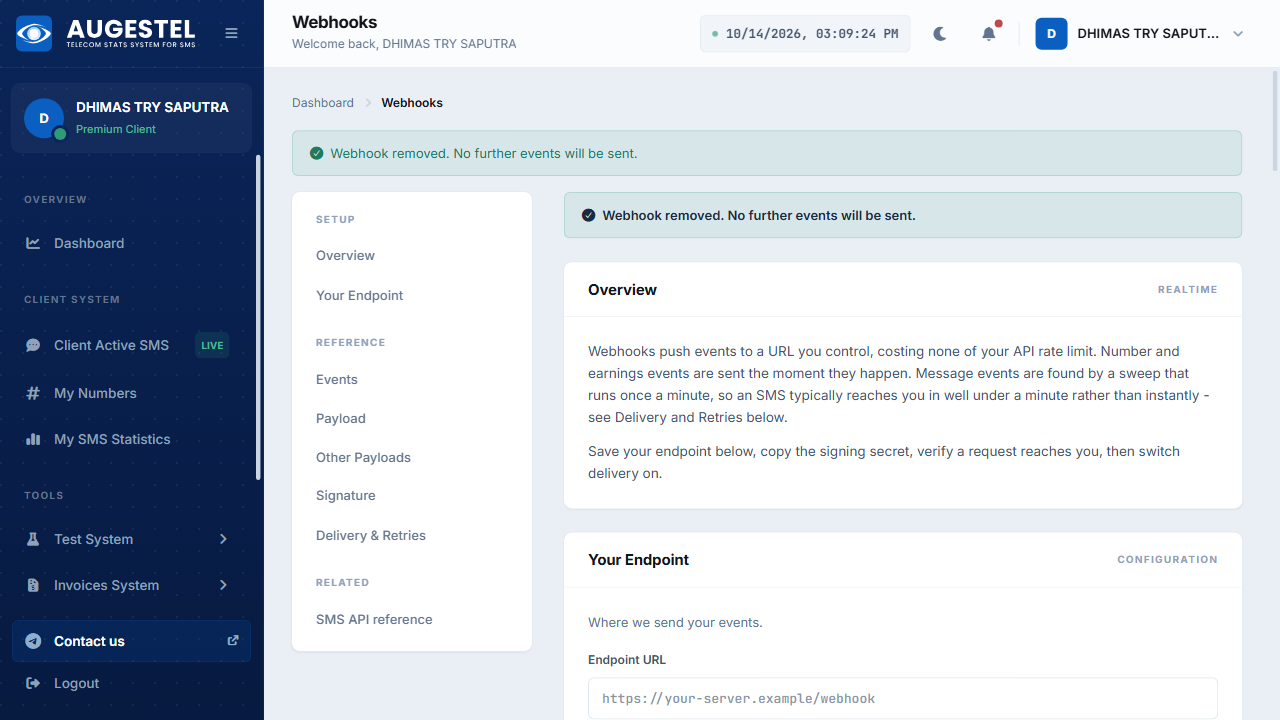
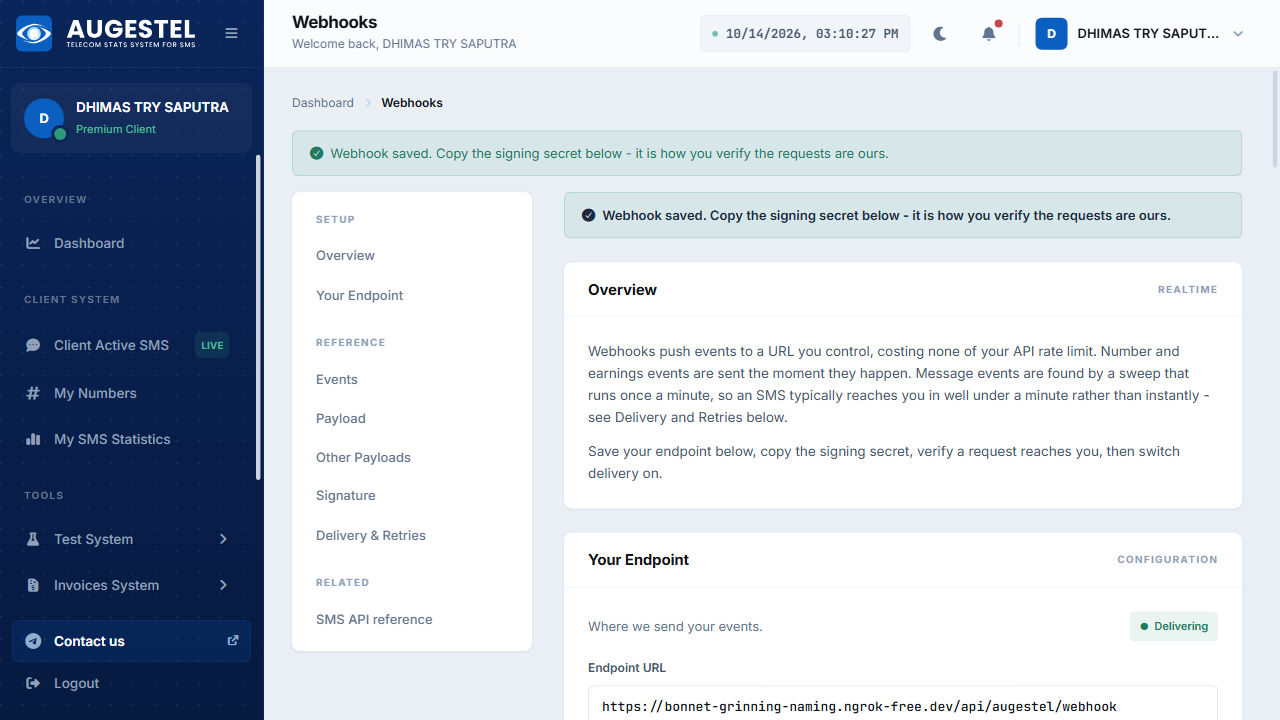
auto-update: webhook_result_acc_1.png, augestel_browser_pool.py [2026-10-14 22:10:48]

diff --git a/augestel_browser_pool.py b/augestel_browser_pool.py
@@ -730,46 +730,53 @@ class AugestelBrowserPool:
                 await page.goto("https://augestel.com/Switchfy/api/webhooks", wait_until="domcontentloaded", timeout=45000)
                 await asyncio.sleep(2)
 
-            url_input = await page.wait_for_selector("#webhookUrl", timeout=15000)
-            if url_input:
-                await url_input.fill(webhook_url)
+            # Isi formulir dan submit langsung via form spesifik #webhookUrl
+            js_submit_form = """
+            (whUrl) => {
+                const input = document.querySelector('#webhookUrl');
+                if (!input || !input.form) return { ok: false, error: 'input or form not found' };
+                const form = input.form;
+                
+                input.value = whUrl;
+                input.dispatchEvent(new Event('input', { bubbles: true }));
+                input.dispatchEvent(new Event('change', { bubbles: true }));
 
-            # Pastikan is_active (Deliver events to this endpoint) dan event tercentang
-            await page.evaluate("""() => {
-                const cb = document.querySelector('input[type="checkbox"][name="is_active"]');
-                if (cb && !cb.checked) {
+                const cb = form.querySelector('input[type="checkbox"][name="is_active"]');
+                if (cb) {
                     cb.checked = true;
                     cb.dispatchEvent(new Event('input', { bubbles: true }));
                     cb.dispatchEvent(new Event('change', { bubbles: true }));
                 }
-                const msg = document.querySelector('input[type="checkbox"][name="events[]"][value="message.received"]');
-                if (msg && !msg.checked) {
+
+                const msg = form.querySelector('input[type="checkbox"][name="events[]"][value="message.received"]');
+                if (msg) {
                     msg.checked = true;
                     msg.dispatchEvent(new Event('input', { bubbles: true }));
                     msg.dispatchEvent(new Event('change', { bubbles: true }));
                 }
-            }""")
 
-            await asyncio.sleep(0.5)
+                const btns = Array.from(form.querySelectorAll('button[type="submit"], button'));
+                const saveBtn = btns.find(b => {
+                    const t = b.innerText.toLowerCase();
+                    return (t.includes('save') || t.includes('update')) && !t.includes('remove');
+                }) || form.querySelector('button[type="submit"]');
 
-            # Cari tombol submit spesifik: "Save endpoint" atau "Update endpoint" (JANGAN klik "Remove"!)
-            submit_btn = await page.query_selector('form[action*="webhook"] button:has-text("Save"), form[action*="webhook"] button:has-text("Update")')
-            if not submit_btn:
-                all_btns = await page.query_selector_all('form[action*="webhook"] button[type="submit"]')
-                for b in all_btns:
-                    b_txt = (await b.inner_text()).lower()
-                    if "remove" not in b_txt and ("save" in b_txt or "update" in b_txt):
-                        submit_btn = b
-                        break
-
+                if (saveBtn) {
+                    saveBtn.click();
+                    return { ok: true, clicked: saveBtn.innerText.trim() };
+                } else {
+                    form.submit();
+                    return { ok: true, submitted: true };
+                }
+            }
+            """
+            submit_res = await page.evaluate(js_submit_form, webhook_url)
+            logger.info(f"Submit webhook eval: {submit_res}")
             try:
-                if submit_btn:
-                    await submit_btn.click()
-                else:
-                    await page.keyboard.press("Enter")
                 await page.wait_for_load_state("domcontentloaded", timeout=15000)
-            except Exception as ex_sub:
-                logger.debug(f"Wait submit: {ex_sub}")
+            except Exception:
+                pass
+
 
             await asyncio.sleep(2)
 
